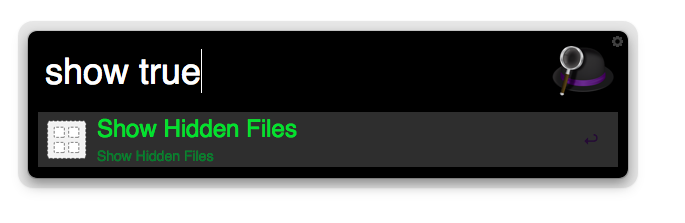
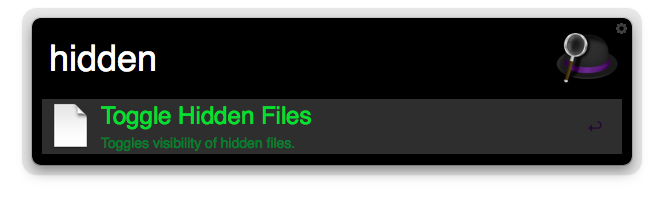
master: new Show Hidden Files workflow

Changed region(s): [[0.0299, 0.0297, 0.9552, 0.8911]]

diff --git a/alfredapp/Workflows/readme.md b/alfredapp/Workflows/readme.md
@@ -36,10 +36,10 @@ Keywords: empty all
 
 ### Show Hidden Files
 
-Show or Hide OSX Hidden Files by [@chrishough](https://github.com/chrishough/).
+Show or Hide OSX Hidden Files by [@matthojo](http://www.alfredforum.com/topic/1544-hide-show-hidden-files-and-cloudapp-upload/).
 
 ```
-Keywords: show true | false
+Keywords: hidden
 ```
 
 ![Show Hidden Files](https://github.com/chrishough/myconfigurations/raw/master/alfredapp/Workflows/hidden-files/hidden-files.png)
